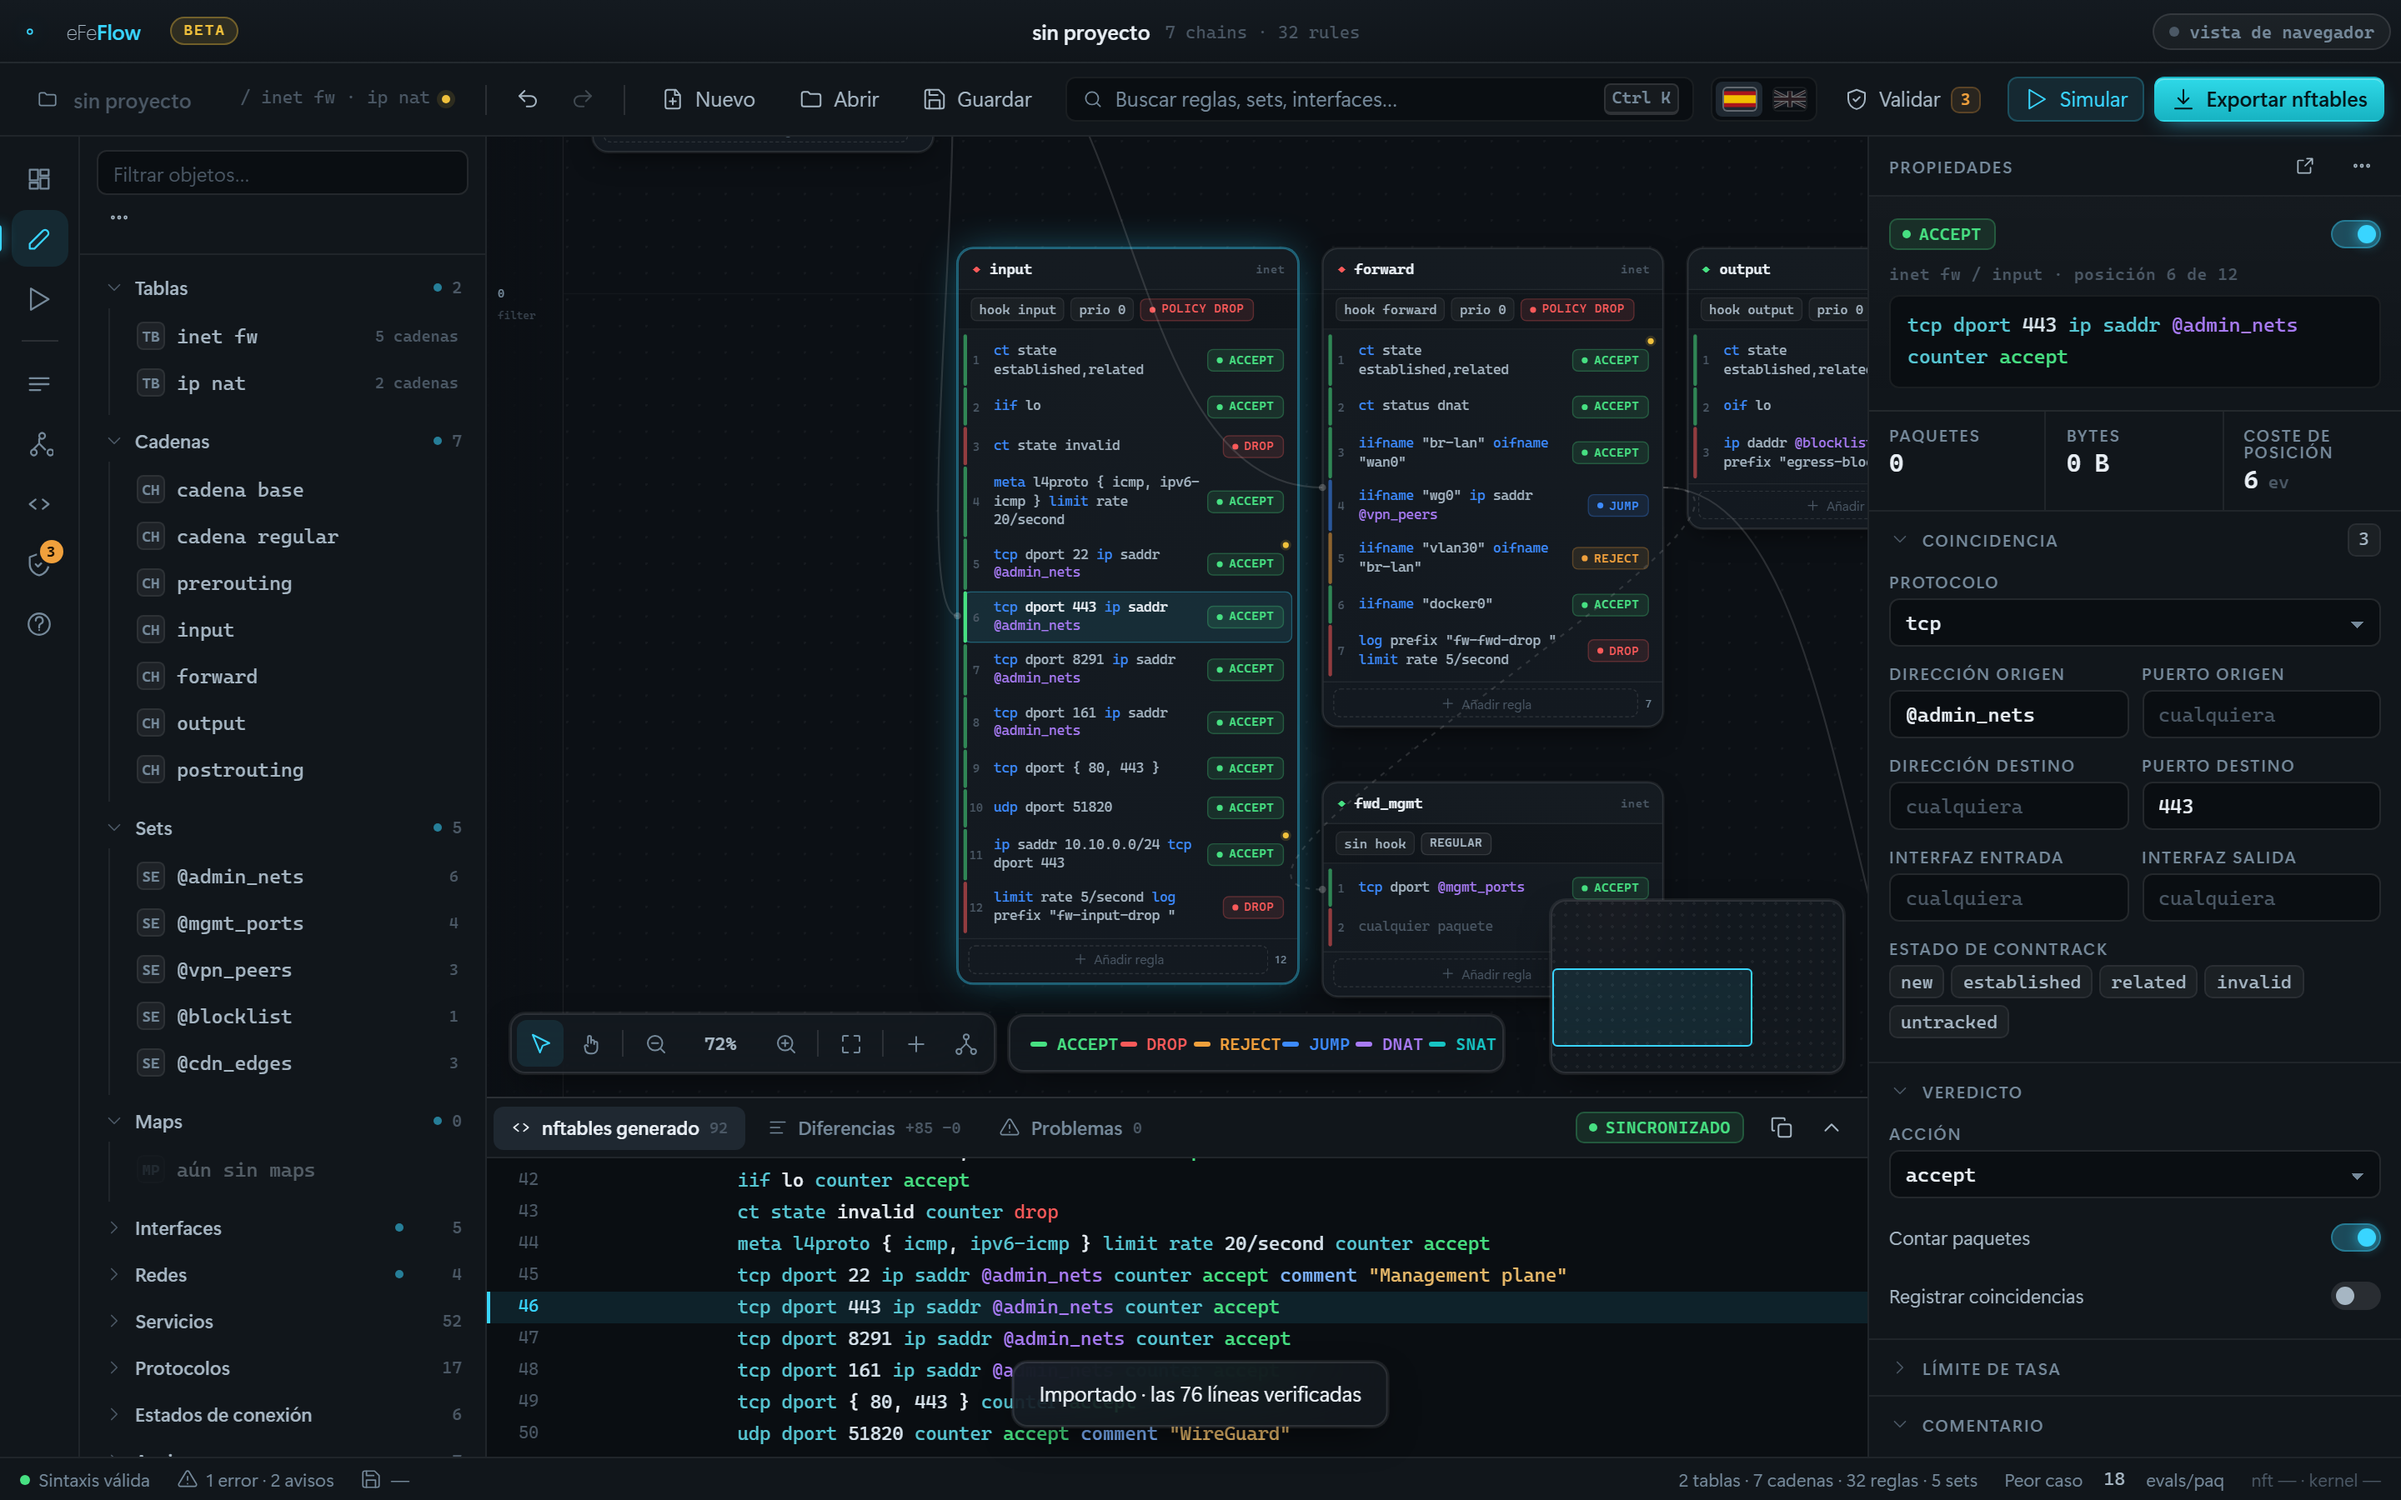
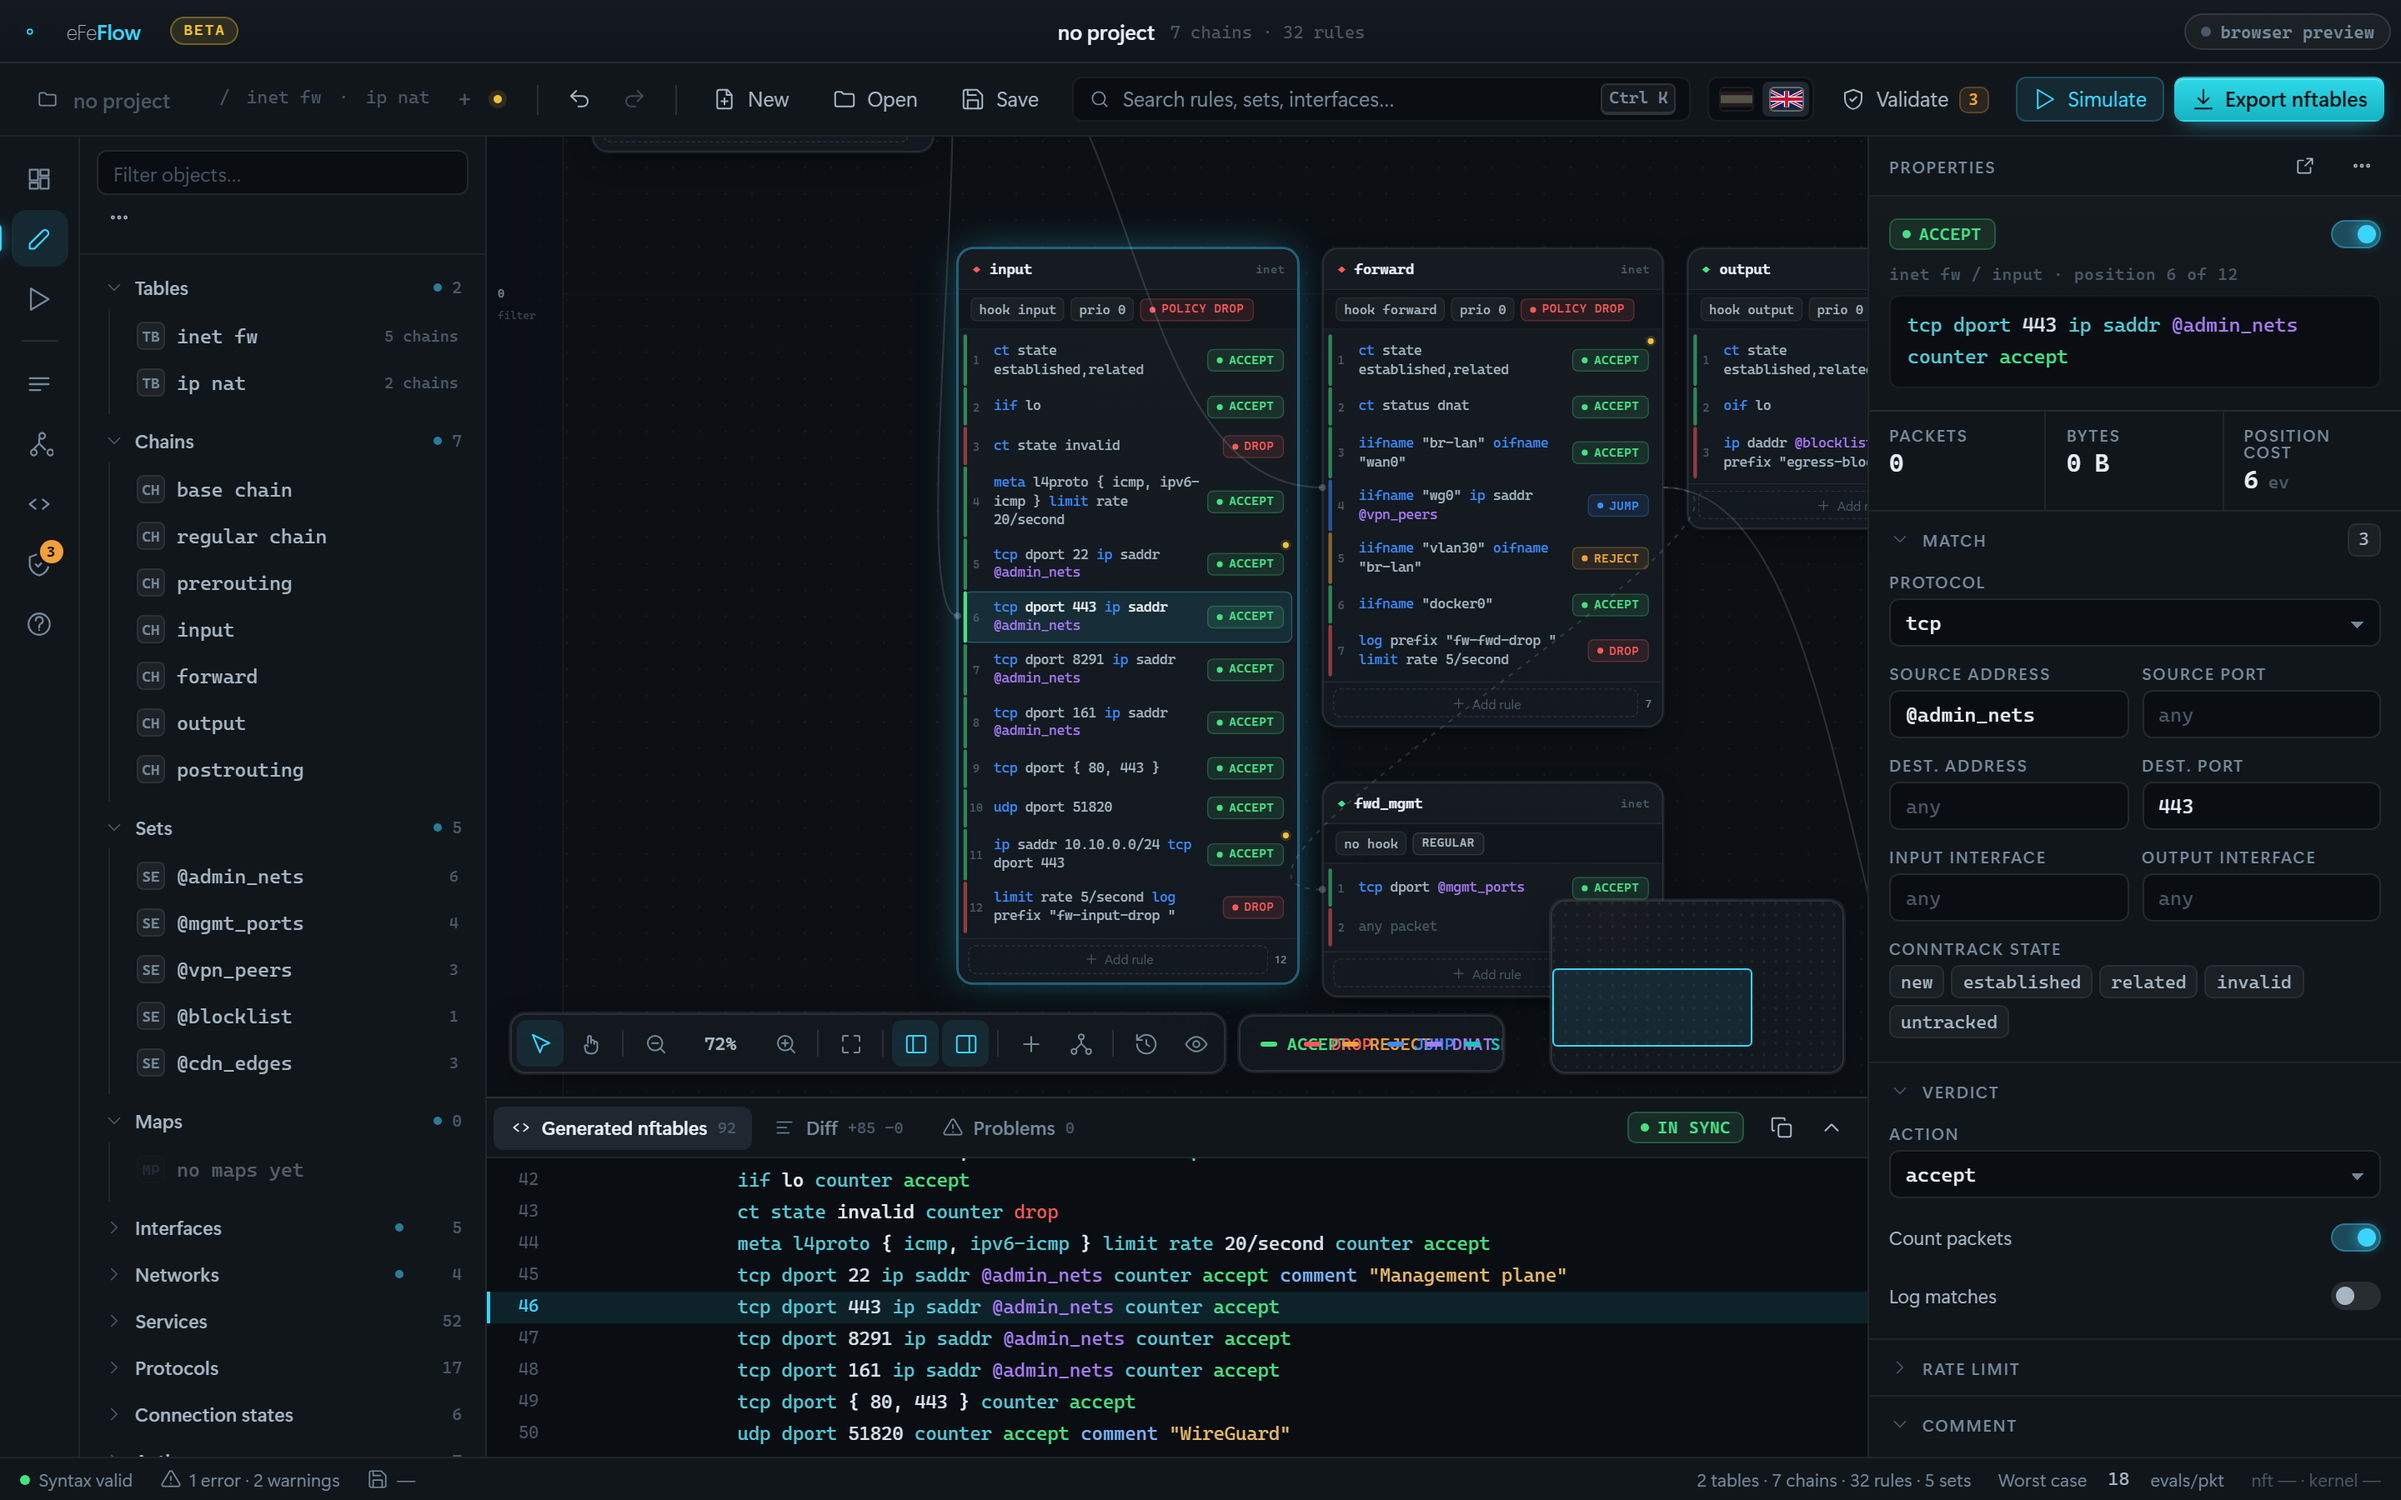
Keep the one screenshot that explains something, and drop the eight that did not
Nine stills, eight of which showed a window rather than a finding — the
difference between look at my interface and look at what it found. The
README stopped pointing at them when it was rewritten, which left five
megabytes of images nothing referenced and `npm run shots` regenerating
files nobody would ever look at. That is precisely the way committed
media goes stale, which is the reason the script exists.

What survives is the canvas, because its layout is the one idea here
that prose struggles with: a chain sits at the hook it is attached to,
left to right in the order a packet meets them, and at its priority, top
to bottom.

It is captured in both languages now, like the GIFs. The recorder's rule
applies to stills too, and the English page was illustrated with a
Spanish interface — so the language check in the README test covers
every image under docs/, not only the moving ones.

diff --git a/test/readme.test.js b/test/readme.test.js
@@ -40,17 +40,21 @@ for (const [file, lang] of READMES) {
     assert.equal(shadowed[0].ref, 1, "shadowed by the one above it");
   });
 
-  test(`${file}: every image it points at exists`, () => {
+  test(`${file}: every image it points at exists, in its own language`, () => {
     const srcs = [...md.matchAll(/<img src="([^"]+)"/g)].map((m) => m[1]);
     assert.ok(srcs.length >= 3, "a README with no images is not the one we wrote");
     for (const s of srcs)
       assert.ok(existsSync(new URL("../" + s, import.meta.url)), `${s} is missing`);
-    /* the GIFs are per-language: an English page illustrated with a Spanish
-       interface reads as nobody having looked */
-    const gifs = srcs.filter((s) => s.endsWith(".gif"));
-    assert.ok(gifs.length >= 2, "the moving parts are what a screenshot cannot show");
-    for (const g of gifs)
-      assert.equal(/\.es\.gif$/.test(g), lang === "es", `${g} is the wrong language for ${file}`);
+
+    assert.ok(srcs.some((s) => s.endsWith(".gif")),
+      "the moving parts are what a screenshot cannot show");
+
+    /* Anything showing the interface is per-language — an English page
+       illustrated with a Spanish interface reads as nobody having looked. The
+       mark in assets/ is the same in both, so it is not one of these. */
+    for (const s of srcs.filter((s) => s.startsWith("docs/")))
+      assert.equal(/\.es\.(gif|png)$/.test(s), lang === "es",
+        `${s} is the wrong language for ${file}`);
   });
 
   test(`${file}: every anchor it links to is defined`, () => {

diff --git a/docs/architecture.md b/docs/architecture.md
@@ -135,11 +135,31 @@ Take rustfmt's output rather than configuring around it. It is the convention
 CI enforces, and there are under two hundred lines of Rust here to have an
 opinion about.
 
-## Screenshots
+## Screenshots and GIFs
 
-`npm run shots` regenerates `docs/*.png` from the real frontend in headless
-Chromium. Committed images go stale silently, so regenerate them when the
-interface changes.
+Both drive the real frontend in headless Chromium, and both import the flawed
+fixture the way a user would — through the import dialog. Committed media goes
+stale silently, so regenerate it when the interface changes.
+
+`npm run shots` produces the one still the README uses: the canvas, whose
+layout is the single idea here that prose struggles with. There were nine, and
+eight of them showed a window rather than a finding.
+
+`npm run gifs` records the three scenes that carry the argument — paste and see
+it proved, a packet walking to a verdict, a shadowed rule next to the button
+that deletes it. One browser context per scene, then ffmpeg trims the setup off
+the front and encodes with a per-scene palette; a shared one turns the aqua on
+near-black into mud. It needs **ffmpeg on PATH**, the only dependency in this
+repo that is not npm.
+
+Two things a recorder has to be told, because neither is automatic. A browser
+records the page and not the pointer, so a cursor is drawn into the page from
+real mouse events — it cannot claim a click that did not happen. And a demo is
+not a test: acted at test speed it is unreadable, so the pauses are deliberate.
+
+Everything is produced twice, `name.png` and `name.es.png`. An English page
+illustrated with a Spanish interface reads as nobody having looked, and
+`test/readme.test.js` holds each README to its own language.
 
 ## Platform notes
 

diff --git a/README.es.md b/README.es.md
@@ -172,7 +172,7 @@ sobreviva al round-trip— son la vía más rápida hasta ahí.
    distinto del de hace un minuto.
 5. **Exporta**, o **aplica** con un rollback de 60 segundos armado en la máquina.
 
-<img src="docs/editor.png" width="880" alt="El lienzo: cadenas colocadas a lo largo de los hooks de netfilter, en orden de prioridad">
+<img src="docs/editor.es.png" width="880" alt="El lienzo: cadenas colocadas a lo largo de los hooks de netfilter, en orden de prioridad">
 
 El lienzo coloca cada cadena en el hook de netfilter al que está enganchada —de
 izquierda a derecha, en el orden en que un paquete los encuentra— y en su
